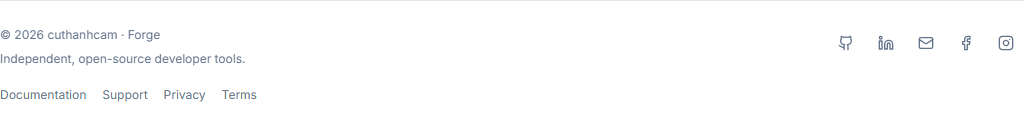
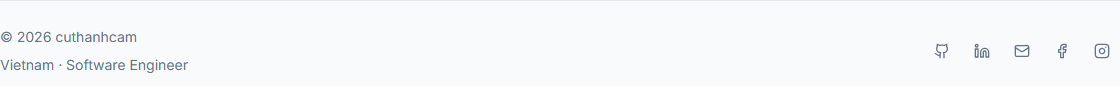
fix(site): simplify footer and align Docs with shared page width

diff --git a/src/pages/docs/DocsPage.tsx b/src/pages/docs/DocsPage.tsx
@@ -1,5 +1,5 @@
 import { SiteFooter } from "@/shared/components/SiteFooter";
-import { useRef } from "react";
+import { useLayoutEffect, useRef } from "react";
 import type { JSX } from "react";
 import { BookOpen, ChevronRight, Keyboard, Route } from "lucide-react";
 import { Link, NavLink, useNavigate, useParams } from "react-router";
@@ -20,6 +20,9 @@ export function DocsPage(): JSX.Element {
   const { docId } = useParams();
   const page = getDocPage(docId);
   const toc = createToc(page.markdown);
+  useLayoutEffect(() => {
+    if (scrollRef.current) scrollRef.current.scrollTop = 0;
+  }, [page.id]);
 
   function scrollToHeading(id: string): void {
     const target = scrollRef.current?.querySelector<HTMLElement>(`#${CSS.escape(id)}`);
@@ -39,119 +42,121 @@ export function DocsPage(): JSX.Element {
   }
 
   return (
-    <main className="min-h-0 min-w-0 flex-1 overflow-hidden px-4 pb-5 md:px-6 lg:px-8">
-      <div className="mx-auto grid h-full min-w-0 max-w-full gap-4 lg:grid-cols-[240px_minmax(0,1fr)] xl:max-w-7xl xl:grid-cols-[240px_minmax(0,1fr)_220px]">
-        <aside className="scrollbar-forge hidden min-h-0 overflow-y-auto border-r border-slate-200 pr-4 pt-5 lg:block">
-          <div className="sticky top-5">
-            <p className="mb-2 px-2 text-[11px] font-bold uppercase tracking-[0.08em] text-slate-400">
-              Documentation
-            </p>
-            <nav className="space-y-1 p-1" aria-label="Documentation navigation">
-              {docPages.map((doc) => {
-                const Icon = docIcons[doc.id] ?? BookOpen;
-
-                return (
-                  <NavLink
-                    className={({ isActive }) =>
-                      cn(
-                        "flex items-start gap-2 rounded-md px-2 py-2 text-[13px] font-semibold transition focus-visible:outline-none focus-visible:ring-2 focus-visible:ring-inset focus-visible:ring-accent-600",
-                        isActive || (!docId && doc.id === "overview")
-                          ? "bg-accent-50 text-accent-700 ring-1 ring-inset ring-accent-100"
-                          : "text-slate-600 hover:bg-slate-100 hover:text-slate-950",
-                      )
-                    }
-                    key={doc.id}
-                    end={doc.id === "overview"}
-                    to={doc.id === "overview" ? "/docs" : `/docs/${doc.id}`}
-                  >
-                    <Icon aria-hidden="true" className="mt-0.5 h-4 w-4 shrink-0" />
-                    <span className="min-w-0">
-                      <span className="block truncate">{doc.title}</span>
-                      <span className="mt-0.5 block text-[11px] font-medium leading-4 text-slate-400">
-                        {doc.description}
-                      </span>
-                    </span>
-                  </NavLink>
-                );
-              })}
-            </nav>
-          </div>
-        </aside>
-
-        <section
-          ref={scrollRef}
-          className="scrollbar-forge min-h-0 min-w-0 max-w-full overflow-auto py-5"
-        >
-          <label className="mb-4 block text-sm text-muted-foreground lg:hidden">
-            Documentation page
-            <select
-              aria-label="Documentation page"
-              className="mt-2 w-full rounded-md border border-border bg-white p-2 text-foreground focus-visible:outline-none focus-visible:ring-2 focus-visible:ring-accent-600"
-              value={page.id}
-              onChange={(event) => {
-                void navigate(
-                  event.target.value === "overview"
-                    ? "/docs"
-                    : `/docs/${event.target.value}`,
-                );
-              }}
-            >
-              {docPages.map((doc) => (
-                <option key={doc.id} value={doc.id}>
-                  {doc.title}
-                </option>
-              ))}
-            </select>
-          </label>
-          <div className="min-w-0 max-w-full rounded-lg border border-slate-200 bg-white shadow-sm shadow-slate-950/[0.03]">
-            <div className="border-b border-slate-200 bg-gradient-soft px-5 py-4">
-              <div className="flex flex-wrap items-center gap-1 text-[12px] font-semibold">
-                <Link className="text-slate-500 transition hover:text-slate-950" to="/">
-                  Forge
-                </Link>
-                <ChevronRight aria-hidden="true" className="h-3.5 w-3.5" />
-                <Link
-                  className="text-slate-500 transition hover:text-slate-950"
-                  to="/docs"
-                >
-                  Docs
-                </Link>
-                <ChevronRight aria-hidden="true" className="h-3.5 w-3.5" />
-                <span className="text-slate-950">{page.title}</span>
-              </div>
-              <p className="mt-2 max-w-[calc(100vw-5.5rem)] break-words text-sm leading-6 text-slate-600 md:max-w-2xl">
-                {page.description}
+    <main
+      ref={scrollRef}
+      className="scrollbar-forge min-h-0 min-w-0 flex-1 overflow-auto px-4 pb-5 md:px-6 lg:px-8"
+    >
+      <div className="mx-auto max-w-7xl">
+        <div className="grid min-h-[calc(100dvh-6rem)] min-w-0 gap-4 lg:grid-cols-[240px_minmax(0,1fr)] xl:grid-cols-[240px_minmax(0,1fr)_220px]">
+          <aside className="scrollbar-forge sticky top-5 hidden max-h-[calc(100dvh-6rem)] min-h-0 self-start overflow-y-auto border-r border-slate-200 pr-4 pt-5 lg:block">
+            <div>
+              <p className="mb-2 px-2 text-[11px] font-bold uppercase tracking-[0.08em] text-slate-400">
+                Documentation
               </p>
-            </div>
-            <div className="px-5 py-6 md:px-8">
-              <DocsMarkdown markdown={page.markdown} />
-            </div>
-          </div>
-          <SiteFooter />
-        </section>
+              <nav className="space-y-1 p-1" aria-label="Documentation navigation">
+                {docPages.map((doc) => {
+                  const Icon = docIcons[doc.id] ?? BookOpen;
 
-        <aside className="scrollbar-forge hidden min-h-0 overflow-y-auto border-l border-slate-200 pl-4 pt-5 xl:block">
-          <div className="sticky top-5">
-            <p className="mb-2 text-[11px] font-bold uppercase tracking-[0.08em] text-slate-400">
-              On this page
-            </p>
-            <nav className="space-y-1" aria-label="Table of contents">
-              {toc.map((item) => (
-                <button
-                  className={cn(
-                    "block w-full rounded-md px-2 py-1.5 text-left text-[12px] font-semibold text-slate-500 transition hover:bg-slate-100 hover:text-slate-950",
-                    item.level === 3 && "pl-5 font-medium",
-                  )}
-                  key={item.id}
-                  onClick={() => scrollToHeading(item.id)}
-                  type="button"
-                >
-                  {item.title}
-                </button>
-              ))}
-            </nav>
-          </div>
-        </aside>
+                  return (
+                    <NavLink
+                      className={({ isActive }) =>
+                        cn(
+                          "flex items-start gap-2 rounded-md px-2 py-2 text-[13px] font-semibold transition focus-visible:outline-none focus-visible:ring-2 focus-visible:ring-inset focus-visible:ring-accent-600",
+                          isActive || (!docId && doc.id === "overview")
+                            ? "bg-accent-50 text-accent-700 ring-1 ring-inset ring-accent-100"
+                            : "text-slate-600 hover:bg-slate-100 hover:text-slate-950",
+                        )
+                      }
+                      key={doc.id}
+                      end={doc.id === "overview"}
+                      to={doc.id === "overview" ? "/docs" : `/docs/${doc.id}`}
+                    >
+                      <Icon aria-hidden="true" className="mt-0.5 h-4 w-4 shrink-0" />
+                      <span className="min-w-0">
+                        <span className="block truncate">{doc.title}</span>
+                        <span className="mt-0.5 block text-[11px] font-medium leading-4 text-slate-400">
+                          {doc.description}
+                        </span>
+                      </span>
+                    </NavLink>
+                  );
+                })}
+              </nav>
+            </div>
+          </aside>
+
+          <section className="min-w-0 max-w-full py-5">
+            <label className="mb-4 block text-sm text-muted-foreground lg:hidden">
+              Documentation page
+              <select
+                aria-label="Documentation page"
+                className="mt-2 w-full rounded-md border border-border bg-white p-2 text-foreground focus-visible:outline-none focus-visible:ring-2 focus-visible:ring-accent-600"
+                value={page.id}
+                onChange={(event) => {
+                  void navigate(
+                    event.target.value === "overview"
+                      ? "/docs"
+                      : `/docs/${event.target.value}`,
+                  );
+                }}
+              >
+                {docPages.map((doc) => (
+                  <option key={doc.id} value={doc.id}>
+                    {doc.title}
+                  </option>
+                ))}
+              </select>
+            </label>
+            <div className="min-w-0 max-w-full rounded-lg border border-slate-200 bg-white shadow-sm shadow-slate-950/[0.03]">
+              <div className="border-b border-slate-200 bg-gradient-soft px-5 py-4">
+                <div className="flex flex-wrap items-center gap-1 text-[12px] font-semibold">
+                  <Link className="text-slate-500 transition hover:text-slate-950" to="/">
+                    Forge
+                  </Link>
+                  <ChevronRight aria-hidden="true" className="h-3.5 w-3.5" />
+                  <Link
+                    className="text-slate-500 transition hover:text-slate-950"
+                    to="/docs"
+                  >
+                    Docs
+                  </Link>
+                  <ChevronRight aria-hidden="true" className="h-3.5 w-3.5" />
+                  <span className="text-slate-950">{page.title}</span>
+                </div>
+                <p className="mt-2 max-w-[calc(100vw-5.5rem)] break-words text-sm leading-6 text-slate-600 md:max-w-2xl">
+                  {page.description}
+                </p>
+              </div>
+              <div className="px-5 py-6 md:px-8">
+                <DocsMarkdown markdown={page.markdown} />
+              </div>
+            </div>
+          </section>
+
+          <aside className="scrollbar-forge sticky top-5 hidden max-h-[calc(100dvh-6rem)] min-h-0 self-start overflow-y-auto border-l border-slate-200 pl-4 pt-5 xl:block">
+            <div>
+              <p className="mb-2 text-[11px] font-bold uppercase tracking-[0.08em] text-slate-400">
+                On this page
+              </p>
+              <nav className="space-y-1" aria-label="Table of contents">
+                {toc.map((item) => (
+                  <button
+                    className={cn(
+                      "block w-full rounded-md px-2 py-1.5 text-left text-[12px] font-semibold text-slate-500 transition hover:bg-slate-100 hover:text-slate-950",
+                      item.level === 3 && "pl-5 font-medium",
+                    )}
+                    key={item.id}
+                    onClick={() => scrollToHeading(item.id)}
+                    type="button"
+                  >
+                    {item.title}
+                  </button>
+                ))}
+              </nav>
+            </div>
+          </aside>
+        </div>
+        <SiteFooter />
       </div>
     </main>
   );

diff --git a/src/shared/components/SiteFooter.tsx b/src/shared/components/SiteFooter.tsx
@@ -1,6 +1,5 @@
 import type { JSX } from "react";
 import { Facebook, Github, Instagram, Linkedin, Mail } from "lucide-react";
-import { Link } from "react-router";
 import { projectLinks } from "@/core/config/project-links";
 import { Tooltip } from "@/shared/ui/tooltip";
 
@@ -18,19 +17,16 @@ export function SiteFooter(): JSX.Element {
     <footer
       role="contentinfo"
       aria-label="Forge footer"
-      className="mt-10 border-t border-border pb-2 pt-6 text-xs leading-5 text-muted-foreground"
+      className="mt-10 border-t border-border pb-2 pt-6 text-sm leading-6 text-muted-foreground"
     >
-      <div className="flex flex-wrap items-start justify-between gap-x-8 gap-y-4">
+      <div className="flex flex-wrap items-center justify-between gap-x-8 gap-y-4">
         <div className="space-y-1">
-          <p>
-            &copy; {new Date().getFullYear()} cuthanhcam <span aria-hidden="true">·</span>{" "}
-            Forge
-          </p>
-          <p>Independent, open-source developer tools.</p>
+          <p>&copy; {new Date().getFullYear()} cuthanhcam</p>
+          <p>Vietnam &middot; Software Engineer</p>
         </div>
         <nav
           aria-label="Maintainer contacts"
-          className="flex flex-wrap items-center gap-1"
+          className="ml-auto flex flex-wrap items-center gap-1"
         >
           {contacts.map(({ label, href, icon: Icon }) => (
             <Tooltip key={label} content={label} side="top">
@@ -47,22 +43,6 @@ export function SiteFooter(): JSX.Element {
           ))}
         </nav>
       </div>
-      <nav aria-label="Forge information" className="mt-4 flex flex-wrap gap-x-4 gap-y-2">
-        {[
-          { to: "/docs", label: "Documentation" },
-          { to: "/support/ask", label: "Support" },
-          { to: "/privacy", label: "Privacy" },
-          { to: "/terms", label: "Terms" },
-        ].map(({ to, label }) => (
-          <Link
-            key={to}
-            to={to}
-            className="rounded underline-offset-4 hover:text-foreground hover:underline focus-visible:outline-none focus-visible:ring-2 focus-visible:ring-accent-600"
-          >
-            {label}
-          </Link>
-        ))}
-      </nav>
     </footer>
   );
 }

diff --git a/e2e/helper-pages.spec.ts b/e2e/helper-pages.spec.ts
@@ -154,6 +154,28 @@ test("informational footers stay in their scroll owner and out of tool workspace
     await page.goto(route);
     const footer = page.getByRole("contentinfo", { name: "Forge footer" });
     await expect(footer).toHaveCount(1);
+    await expect(
+      footer.getByText(`© ${new Date().getFullYear()} cuthanhcam`, { exact: true }),
+    ).toBeVisible();
+    await expect(
+      footer.getByText("Vietnam · Software Engineer", { exact: true }),
+    ).toBeVisible();
+    await expect(footer.getByRole("link")).toHaveCount(5);
+    const footerWidth = await footer.evaluate((node) =>
+      Math.round(node.getBoundingClientRect().width),
+    );
+    const mainWidth = await page.getByRole("main").evaluate((node) => {
+      const style = getComputedStyle(node);
+      return Math.round(
+        Math.min(
+          1280,
+          node.clientWidth -
+            parseFloat(style.paddingLeft) -
+            parseFloat(style.paddingRight),
+        ),
+      );
+    });
+    expect(footerWidth).toBe(mainWidth);
     await footer.evaluate((node) => {
       let owner = node.parentElement;
       while (owner && !/auto|scroll/.test(getComputedStyle(owner).overflowY))

diff --git a/e2e/home.spec.ts b/e2e/home.spec.ts
@@ -71,8 +71,12 @@ test("UI font is self-hosted and home stays readable at narrow widths and large 
     document.documentElement.classList.add("dark");
   });
   await expect.poll(noOverflow).toBe(true);
-  await main.getByRole("link", { name: "Terms", exact: true }).scrollIntoViewIfNeeded();
-  await expect(main.getByRole("link", { name: "Terms", exact: true })).toBeInViewport();
+  await main
+    .getByRole("link", { name: "Instagram", exact: true })
+    .scrollIntoViewIfNeeded();
+  await expect(
+    main.getByRole("link", { name: "Instagram", exact: true }),
+  ).toBeInViewport();
   await page.screenshot({ path: test.info().outputPath("home-dark-large-text.png") });
 });
 

diff --git a/src/pages/home/HomePage.tsx b/src/pages/home/HomePage.tsx
@@ -208,6 +208,8 @@ export function HomePage(): JSX.Element {
             ) : null}
           </div>
         </section>
+      </div>
+      <div className="mx-auto max-w-7xl">
         <SiteFooter />
       </div>
     </main>

diff --git a/docs/development/design-language.md b/docs/development/design-language.md
@@ -114,17 +114,17 @@ main. Keep [the tool audit](tool-ux-audit.md) and this plan updated as tasks lan
 See [range control behavior](range-controls.md) for the implemented scales,
 keyboard rules and native-input constraints.
 
-## Informational footer proposal
+## Informational footer
 
-Use one shared footer on Home, Docs, Support, Settings, Privacy, Terms and the
-not-found page. It lives at the end of each page's own scroll owner, never fixed
-above tool editors. Docs keeps it in the reader column so the document outline
-and navigation remain independently reachable.
+Use one minimal footer on Home, Docs, Support, Settings, Privacy, Terms and the
+not-found page. Its content width matches the shared max-w-7xl page container,
+including Docs and Home. It scrolls with the page rather than staying fixed.
+Docs uses one page scroll owner with sticky, independently scrollable sidebars;
+the footer spans the full content grid and changing document resets reading to top.
 
-The project-first treatment uses a quiet top divider, copyright/maintainer name,
-short OSS description, five accessible contact icons and local information links.
-GitHub, LinkedIn and email appear first; Facebook and Instagram follow. Keep
-icons monochrome, with theme-aware hover/focus and tooltips. External links use
-noopener/noreferrer and no embedded social feeds. Narrow layouts wrap naturally.
-This is the initial reviewable proposal; avoid a large marketing footer in the
-workbench and do not add it to registered tool routes.
+The left side shows only copyright/name and Vietnam / Software Engineer. The
+right side has GitHub, LinkedIn, email, Facebook and Instagram icons, with
+accessible names, theme-aware hover/focus, tooltips and safe external links.
+On narrow screens the contact row wraps and remains right-aligned. Do not add
+extra footer navigation, marketing copy or social embeds. Registered tool
+workspaces retain their full editor area without a site footer.
